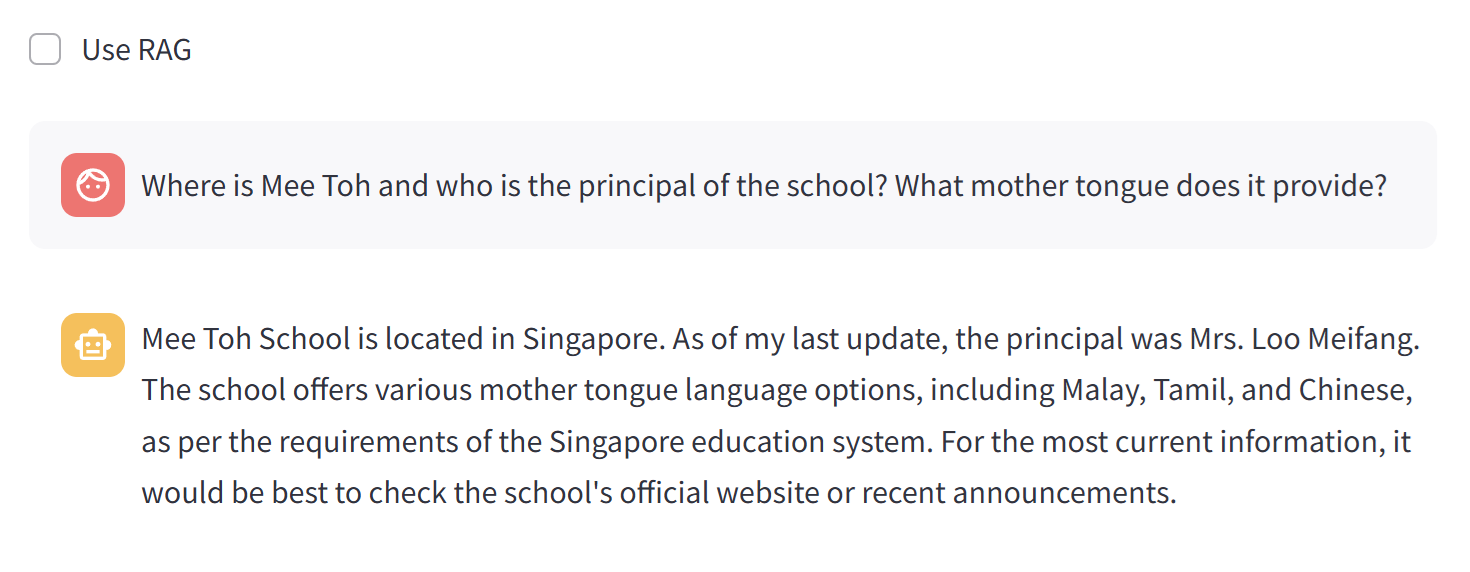
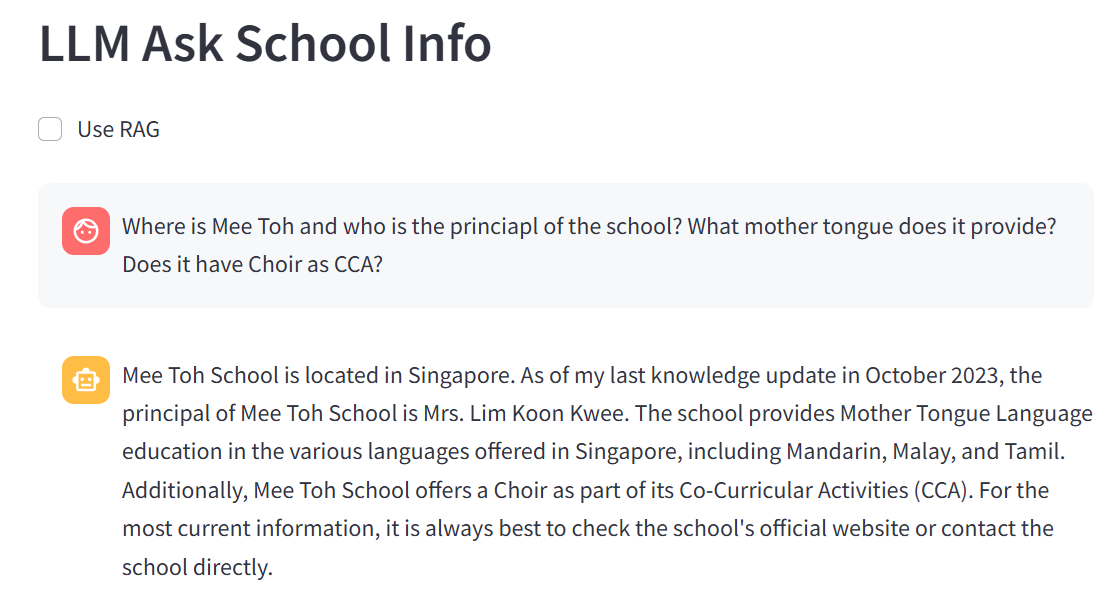
add new features

diff --git a/primaryschool.py b/primaryschool.py
@@ -8,17 +8,54 @@ import graphviz
 
 load_dotenv()
 
+@st.cache_data
+def loadData():
+
+    school_info_df = pd.read_csv('data/generalInformation.csv')
+    school_info_df = school_info_df[school_info_df['mainlevel_code'] == "PRIMARY"]
+
+    ccadf = pd.read_csv('data/CCA.csv')
+    ccadf = ccadf[ccadf['school_name'].isin(school_info_df['school_name'])]
+    ccadf =  ccadf[['school_name','cca_generic_name']]
+    ccadf_pivot = ccadf.pivot_table(
+    index=["school_name"],
+    columns="cca_generic_name",
+    aggfunc=lambda x: 'Yes',
+    fill_value='No').reset_index()
+    ccadf_pivot.columns = [
+        f"CCA: {col}" if col not in ["school_name"] else col 
+        for col in ccadf_pivot.columns
+    ]
+
+ 
+    subjectdf = pd.read_csv('data/subjectsOffered.csv')
+    subjectdf = subjectdf[subjectdf['school_name'].isin(school_info_df['school_name'])]
+    subjectdf =  subjectdf[['school_name','subject_desc']]
+    subjectdf_pivot = subjectdf.pivot_table(
+    index=["school_name"],
+    columns="subject_desc",
+    aggfunc=lambda x: 'Yes',
+    fill_value='No').reset_index()
+    subjectdf_pivot.columns = [
+        f"subject offered: {col}" if col not in ["school_name"] else col 
+        for col in subjectdf_pivot.columns
+    ]
+
+    school_info_df = pd.merge(school_info_df, ccadf_pivot, on="school_name", how="left")
+    school_info_df = pd.merge(school_info_df, subjectdf_pivot, on="school_name", how="left")
+
+    school_info_df = school_info_df.fillna("No")
+    return school_info_df
+
 def app():
     if "context" not in st.session_state:
         st.session_state.context = ""
     def Compare_School():
         st.header("Compare School")
             # Sample options list
-        school_data = pd.read_csv('data/generalInformation.csv')
-        unique_school_section = school_data['mainlevel_code'].unique()
+        school_data = loadData()
         # Step 3: Create a dropdown list from the unique `cca_generic_name` values
-        selected_school_section = st.selectbox("Select a the level", unique_school_section)
-        school_data = school_data[school_data['mainlevel_code'] == selected_school_section]
+
         options = school_data["school_name"]
 
         # Dropdown 1
@@ -69,7 +106,7 @@ Always consult with qualified professionals for accurate and personalized advice
         st.header("LLM Ask School Info")
         rag = st.checkbox("Use RAG",True)
         # Sample data loading (replace with your actual data file)
-        school_data = pd.read_csv('data/generalInformation.csv')
+        school_data = loadData()
         school_data["school_name"] = school_data["school_name"].str.replace('SCHOOL', '',case=False).str.strip()
         #st.dataframe(school_data)
         # Function to retrieve school information based on query
@@ -134,7 +171,7 @@ Always consult with qualified professionals for accurate and personalized advice
                 response = st.write_stream(stream)
             st.session_state.messages.append({"role": "assistant", "content": response})
         if len(st.session_state.messages) == 0:
-            st.info("Try asking: Where is Mee Toh and who is the Principal and VPs?")
+            st.info("Try asking: Where is Mee Toh and who is the princiapl of the school? What mother tongue does it provide? Does it have Choir as CCA?")
         else:
             with st.expander("Disclaimer"):
                 st.write("""**IMPORTANT NOTICE**: This web application is a prototype developed for educational purposes only. The information provided here is NOT intended for real-world usage and should not be relied upon for making any decisions, especially those related to financial, legal, or healthcare matters.
@@ -150,13 +187,11 @@ Always consult with qualified professionals for accurate and personalized advice
     
 
         # Step 2: Get a list of unique data from the column `cca_generic_name`
-        unique_school_section = df['school_section'].unique()
         unique_cca_names = df['cca_generic_name'].unique()
         # Step 3: Create a dropdown list from the unique `cca_generic_name` values
-        selected_school_section = st.selectbox("Select a the level", unique_school_section)
         selected_cca = st.selectbox("Select a CCA", unique_cca_names)
         # Step 4: Filter the DataFrame to show `school_name` where `cca_generic_name` matches the selection
-        filtered_df = df[(df['cca_generic_name'] == selected_cca) & (df['school_section'] == selected_school_section)]
+        filtered_df = df[(df['cca_generic_name'] == selected_cca) & (df['school_section'] == 'PRIMARY')]
 
         # Display the list of school names
         st.write("Schools offering the selected CCA:")
@@ -180,7 +215,7 @@ Always consult with qualified professionals for accurate and personalized advice
         st.write("Response after RAG")
         st.image("meetoh2.png")
         st.image("meetoh3.png",caption="Actual Location of Mee Toh", width=450)
-        st.write("As you can see before RAG the address was very vague. Sometime it might even give wrong answer")
+        st.write("As you can see before RAG the address was very vague. Sometime it might even give wrong answer. The LLM also can answer more definitive after RAG")
         st.divider()
         st.subheader("Use Case 3 - CCA Finder", divider=True)
         st.write("Using Streamlit python to allow user quickly drill down in to the level (Primary, Secondary, JC) and choice of CCA, the system will return the list of school that provide the selected CCA")
@@ -189,11 +224,11 @@ Always consult with qualified professionals for accurate and personalized advice
         st.write("""MOE (Ministry of Education)
     List of all schools with details on:
 ```
-General information of schools
-Subjects offered
-Co-curricular activities (CCAs)
-MOE programmes
-School Distinctive Programmes
+General information of schools ✅
+Subjects offered ✅
+Co-curricular activities (CCAs) ✅
+MOE programmes ❌
+School Distinctive Programmes ❌
 ```""")
         st.write("All information is accurate as at 24 Mar 2021.")
         st.write("https://data.gov.sg/datasets?topics=education&page=1&resultId=457")
@@ -207,8 +242,8 @@ School Distinctive Programmes
         graph = graphviz.Digraph()
         graph.edge("School Data via data.gov.sg", "Data Loader")
         graph.edge("Data Loader", "Pandas DataFrame")
-        graph.edge("Pandas DataFrame", "User Select School's Level")
-        graph.edge("User Select School's Level", "User Select Two Schools")
+        graph.edge("Pandas DataFrame", "Merge CCA/Subject/General Information Tables")
+        graph.edge("Merge CCA/Subject/General Information Tables", "User Select Two Schools")
         graph.edge("User Select Two Schools","Parse Information of the Two Schools as Context")
         graph.edge("Parse Information of the Two Schools as Context","Display the LLM Response")
         st.graphviz_chart(graph)
@@ -217,7 +252,8 @@ School Distinctive Programmes
         graph = graphviz.Digraph()
         graph.edge("School Data via data.gov.sg", "Data Loader")
         graph.edge("Data Loader", "Pandas DataFrame")
-        graph.edge("Pandas DataFrame", "User Submit Query")
+        graph.edge("Pandas DataFrame", "Merge CCA/Subject/General Information Tables")
+        graph.edge("Merge CCA/Subject/General Information Tables", "User Submit Query")
         graph.edge("User Submit Query","Is Rag Enabled")
         graph.edge("Is Rag Enabled","If School name appears in User Submitted Query","Yes")
         graph.edge("If School name appears in User Submitted Query","Perform RAG","Yes")
@@ -234,17 +270,15 @@ School Distinctive Programmes
         st.divider()
         st.subheader("Use Case 3 - CCA Finder", divider=True)
         graph = graphviz.Digraph()
-        graph.edge("School Data via data.gov.sg", "Data Loader")
+        graph.edge("School CCA Data via data.gov.sg", "Data Loader")
         graph.edge("Data Loader", "Pandas DataFrame")
-        graph.edge("Pandas DataFrame", "User Select School's Level")
-        graph.edge("User Select School's Level","User Select CCA")
+        graph.edge("Pandas DataFrame","User Select CCA")
         graph.edge("User Select CCA","Display a list of School Match Condition")
         st.graphviz_chart(graph)
 
 
     pg = st.navigation([st.Page(Compare_School), st.Page(LLM_Ask_School_Info),st.Page(CCA_Finder), st.Page(About_Us), st.Page(Methodology)])
     pg.run()
-
 
 
 # Define the hardcoded password
